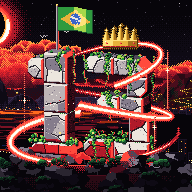
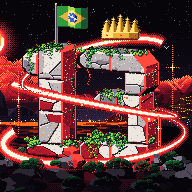
Mundo do título em resolução 2x, 13 mais legível com lajes chanfradas e granito; corrige ordem dos @import do CSS (HUD voltou)
Claude-Session: https://claude.ai/code/session_0165ZqKdQ2bY4744cygyd8X8

diff --git a/src/scene/monument.ts b/src/scene/monument.ts
@@ -90,7 +90,7 @@ void main(){
   vec4 tx = texelFetch(uTex, ivec2(mod(gl_FragCoord.xy + uOff, 256.0)), 0);
   float crack = tx.r;
   // desgaste: com o monumento gasto aparecem todas as rachaduras; reformado, só as maiores
-  if (crack > 0.4 && tx.a > 0.5 + 0.5 * uWear) crack = 0.0;
+  if (crack > 0.4 && tx.a > 0.78 + 0.22 * uWear) crack = 0.0;
   float speck = tx.g;
   float tone = tx.b;
   float lam = dot(nW, uKey);
@@ -264,6 +264,7 @@ uniform int uCrimson;
 uniform int uCrimsonDeep;
 uniform int uRedHot;
 uniform int uOutline;
+uniform int uBlood1;
 uniform float uEps;
 uniform ivec2 uSize;
 vec4 C(ivec2 p){ return texelFetch(tC, clamp(p, ivec2(0), uSize - 1), 0); }
@@ -284,7 +285,9 @@ void main(){
       || isRing(C(p + ivec2(1,1))) || isRing(C(p - ivec2(1,1))) || isRing(C(p + ivec2(1,-1))) || isRing(C(p - ivec2(1,-1)));
     float b = bayer4(gl_FragCoord.xy);
     if (n1 && b < 0.5) { gl_FragColor = vec4(uPal[uCrimson], 1.0); return; }
-    if ((n1 || n2) && b < 0.25) { gl_FragColor = vec4(uPal[uCrimsonDeep], 1.0); return; }
+    if (n2 && b < 0.5) { gl_FragColor = vec4(uPal[uCrimsonDeep], 1.0); return; }
+    bool n3 = isRing(C(p + ivec2(3,0))) || isRing(C(p - ivec2(3,0))) || isRing(C(p + ivec2(0,3))) || isRing(C(p - ivec2(0,3)));
+    if (n3 && b < 0.22) { gl_FragColor = vec4(uPal[uBlood1], 1.0); return; }
     // contorno de 1 px por fora da silhueta (escuro violeta-vermelho, some contra o céu preto)
     if (isSolid(C(p + ivec2(1,0))) || isSolid(C(p - ivec2(1,0))) || isSolid(C(p + ivec2(0,1))) || isSolid(C(p - ivec2(0,1)))) {
       gl_FragColor = vec4(uPal[uOutline], 1.0);
@@ -626,6 +629,24 @@ export class Monument3D {
         const z = -D / 2 + r() ** 0.6 * D
         add(pi, x, p.y1 + 0.05, x, p.y1 + 0.02, z, 0.24 + r() * 0.22)
       }
+      // touceiras derramando pela beira da frente (como na referência)
+      for (let x = p.x0 + 0.2; x < p.x1 - 0.1; x += 0.35 + r() * 0.5) {
+        if (r() > 0.55) continue
+        const n = 6 + Math.floor(r() * 10)
+        for (let q = 0; q < n; q++) {
+          const a2 = r() * Math.PI * 2
+          const d2 = Math.sqrt(r()) * 0.32
+          add(
+            pi,
+            x,
+            p.y1 + 0.05,
+            x + Math.cos(a2) * d2,
+            p.y1 + Math.sin(a2) * d2 * 0.7 - 0.05,
+            front - 0.1 + r() * 0.25,
+            0.22 + r() * 0.16,
+          )
+        }
+      }
       // tufos que escorrem pela frente
       const drapes = r() < 0.75 ? 1 + Math.floor(r() * (w > 2 ? 3 : 2)) : 0
       for (let d = 0; d < drapes; d++) {
@@ -639,7 +660,8 @@ export class Monument3D {
           const s = (0.3 - t * 0.17) * (0.8 + r() * 0.4)
           add(pi, x0, p.y1 + 0.05, x, y, front + r() * 0.08, s)
           for (let q = 0; q < 2; q++)
-            if (r() < 0.7) add(pi, x0, p.y1 + 0.05, x + (r() - 0.5) * 0.4, y - r() * 0.1, front + 0.04, s * 0.8)
+            if (r() < 0.7)
+              add(pi, x0, p.y1 + 0.05, x + (r() - 0.5) * 0.4, y - r() * 0.1, front + 0.04, s * 0.8)
         }
       }
       // trepadeira pela lateral direita
@@ -766,6 +788,7 @@ export class Monument3D {
         uCrimsonDeep: { value: KEYS.indexOf('crimsonDeep') },
         uRedHot: { value: KEYS.indexOf('redHot') },
         uOutline: { value: KEYS.indexOf('blood0') },
+        uBlood1: { value: KEYS.indexOf('blood1') },
         uEps: { value: 0.18 / 79 },
         uSize: { value: [this.w, this.h] },
       },
@@ -843,7 +866,9 @@ export class Monument3D {
     if (topPiece) {
       const d = topPiece.def
       topPiece.mesh.updateMatrixWorld()
-      const v = new THREE.Vector3(1.75 - (d.x0 + d.x1) / 2, d.y1 - d.y0 + 0.05, -0.2).applyMatrix4(topPiece.mesh.matrixWorld)
+      const v = new THREE.Vector3(1.75 - (d.x0 + d.x1) / 2, d.y1 - d.y0 + 0.05, -0.2).applyMatrix4(
+        topPiece.mesh.matrixWorld,
+      )
       flag = this.project(v)
     }
     const crown = this.project(this.local(7.1, 9.55, 0))
@@ -902,12 +927,17 @@ export class Monument3D {
       if (u.uFlick) u.uFlick.value = Math.floor(step / 3) % 2
       if (u.uFlare) u.uFlare.value = this.flare
       const power = 0.78 + 0.22 * Math.max(0, this.progress)
-      if (u.uW) u.uW.value = rb.spec.w * 0.85 * power * (1 + this.flare * 0.5)
+      if (u.uW) u.uW.value = rb.spec.w * 1.35 * power * (1 + this.flare * 0.5)
       if (u.uArc) u.uArc.value = rb.spec.arc * (0.7 + 0.3 * power)
       rb.holder.rotation.y = Math.sin(t * 0.13 + i * 2) * 0.25
       rb.holder.updateMatrixWorld()
       this.ringUniforms.uRingInv.value[i]?.copy(rb.holder.matrixWorld).invert()
-      this.ringUniforms.uRingP.value[i]?.set(rb.spec.R, head, rb.spec.arc * (0.7 + 0.3 * power), power * (1 + this.flare))
+      this.ringUniforms.uRingP.value[i]?.set(
+        rb.spec.R,
+        head,
+        rb.spec.arc * (0.7 + 0.3 * power),
+        power * (1 + this.flare),
+      )
     })
     this.renderer.setRenderTarget(this.rt)
     this.renderer.clear()

diff --git a/src/scene/layout.ts b/src/scene/layout.ts
@@ -61,8 +61,8 @@ export function layoutFor(W: number, H: number): Layout {
       corc: { x: Math.round(W * 0.9), peak: Math.round(horizon - ppu * 3.2), half: Math.round(W * 0.2) },
     }
   }
-  const ppu = Math.max(10, Math.floor(Math.min((H * 0.62) / 11, (W * 0.42) / 10)))
-  const baseY = Math.round(H * 0.76)
+  const ppu = Math.max(10, Math.floor(Math.min((H * 0.68) / 11, (W * 0.5) / 10)))
+  const baseY = Math.round(H * 0.75)
   const horizon = Math.round(H * 0.58)
   return {
     W,
@@ -73,8 +73,8 @@ export function layoutFor(W: number, H: number): Layout {
     ppu,
     base: { x: Math.round(W / 2), y: baseY },
     hillTop: baseY,
-    moon: { x: Math.round(W * 0.17), y: Math.round(H * 0.24), r: Math.max(12, Math.round(H * 0.085)) },
+    moon: { x: Math.round(W * 0.17), y: Math.round(H * 0.24), r: Math.max(12, Math.round(H * 0.062)) },
     sugar: { x: Math.round(W * 0.17), h: Math.round(H * 0.15) },
-    corc: { x: Math.round(W * 0.88), peak: Math.round(H * 0.4), half: Math.round(W * 0.13) },
+    corc: { x: Math.round(W * 0.87), peak: Math.round(H * 0.37), half: Math.round(W * 0.16) },
   }
 }

diff --git a/src/ui/WorldStage.tsx b/src/ui/WorldStage.tsx
@@ -14,6 +14,9 @@ export interface WorldStageProps {
 /** lado menor ≈ 420 px lógicos: 720×450 (escala 2) no desktop, 390 de largura (escala 3) no celular */
 const TARGET = 420
 
+const STAGE = { position: 'fixed', inset: 0, overflow: 'hidden', zIndex: 0, pointerEvents: 'none' } as const
+const CANVAS = { position: 'absolute', left: 0, top: 0, imageRendering: 'pixelated' } as const
+
 export function WorldStage({ progress, celebrate }: WorldStageProps) {
   const ref = useRef<HTMLCanvasElement>(null)
   const worldRef = useRef<World | null>(null)
@@ -154,8 +157,9 @@ export function WorldStage({ progress, celebrate }: WorldStageProps) {
   }, [celebrate])
 
   return (
-    <div className="world-stage" aria-hidden="true">
-      <canvas ref={ref} />
+    // estilos inline: o palco não depende do CSS do HUD para ficar atrás de tudo em tela cheia
+    <div className="world-stage" aria-hidden="true" style={STAGE}>
+      <canvas ref={ref} style={CANVAS} />
     </div>
   )
 }

diff --git a/src/ui/global.css b/src/ui/global.css
@@ -1,3 +1,6 @@
+@import "./base.css";
+@import "./hud.css";
+@import "./pages.css";
 /* Pixelify Sans desenha o 5 parecido com S: algarismos vêm da Silkscreen (legibilidade de números e fontes) */
 @font-face {
   font-family: "n13-digits";
@@ -9,9 +12,6 @@
 /* Nível 13 · tokens, base e classes usadas pelos minijogos.
    Componentes do HUD em hud.css; telas em pages.css.
    Tudo em pixel: bordas em degrau (box-shadow), sem raio, sem blur em elemento pixel. */
-@import "./base.css";
-@import "./hud.css";
-@import "./pages.css";
 
 :root {
   /* paleta mestra (src/lib/palette.ts · docs/research/visual.md §2) */

diff --git a/src/scene/shape13.ts b/src/scene/shape13.ts
@@ -1,9 +1,9 @@
 // Forma do "13" (lajes) e das fitas de energia, compartilhada pelo monumento 3D e pelo fallback 2D.
 
 /** profundidade das lajes */
-export const D = 1.9
-export const YAW = -0.38
-export const PITCH = 0.2
+export const D = 2.3
+export const YAW = -0.47
+export const PITCH = 0.17
 
 export interface PieceDef {
   x0: number
